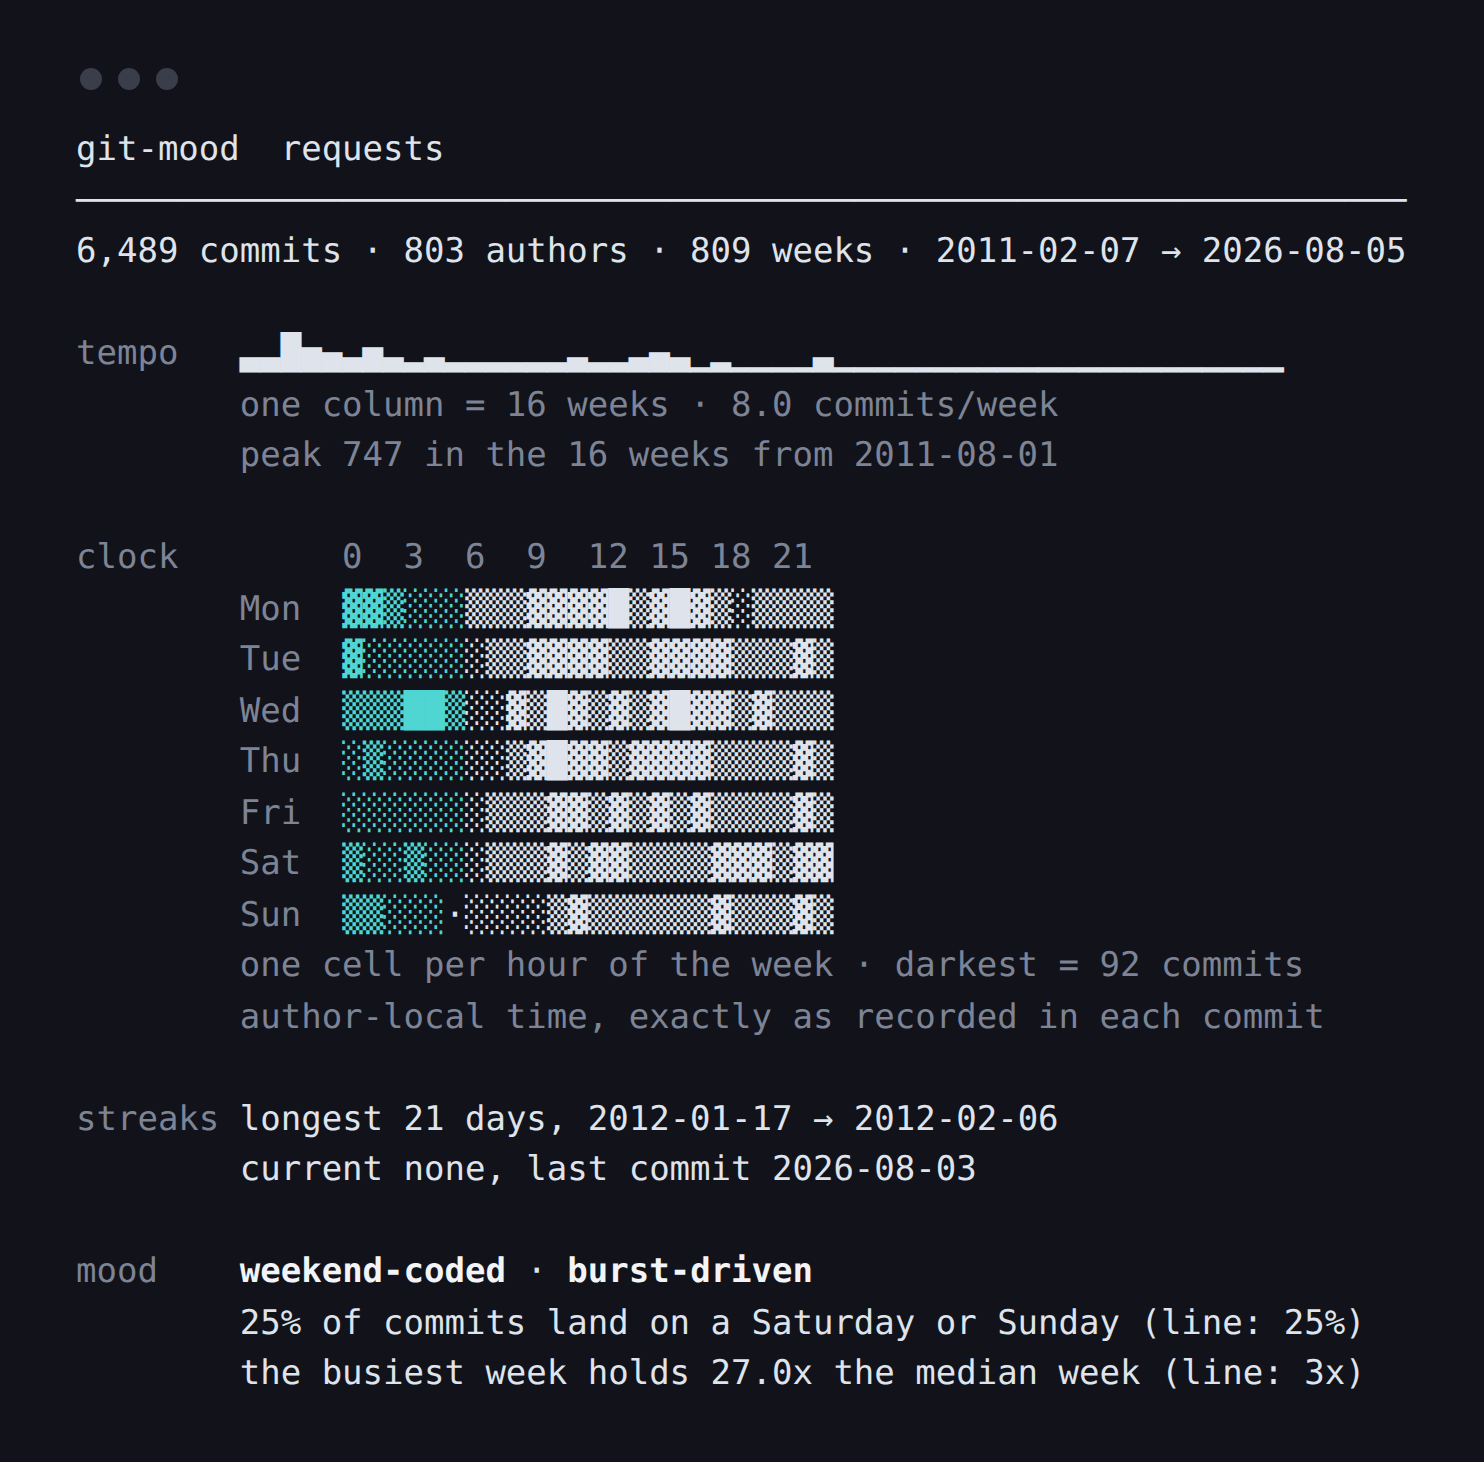
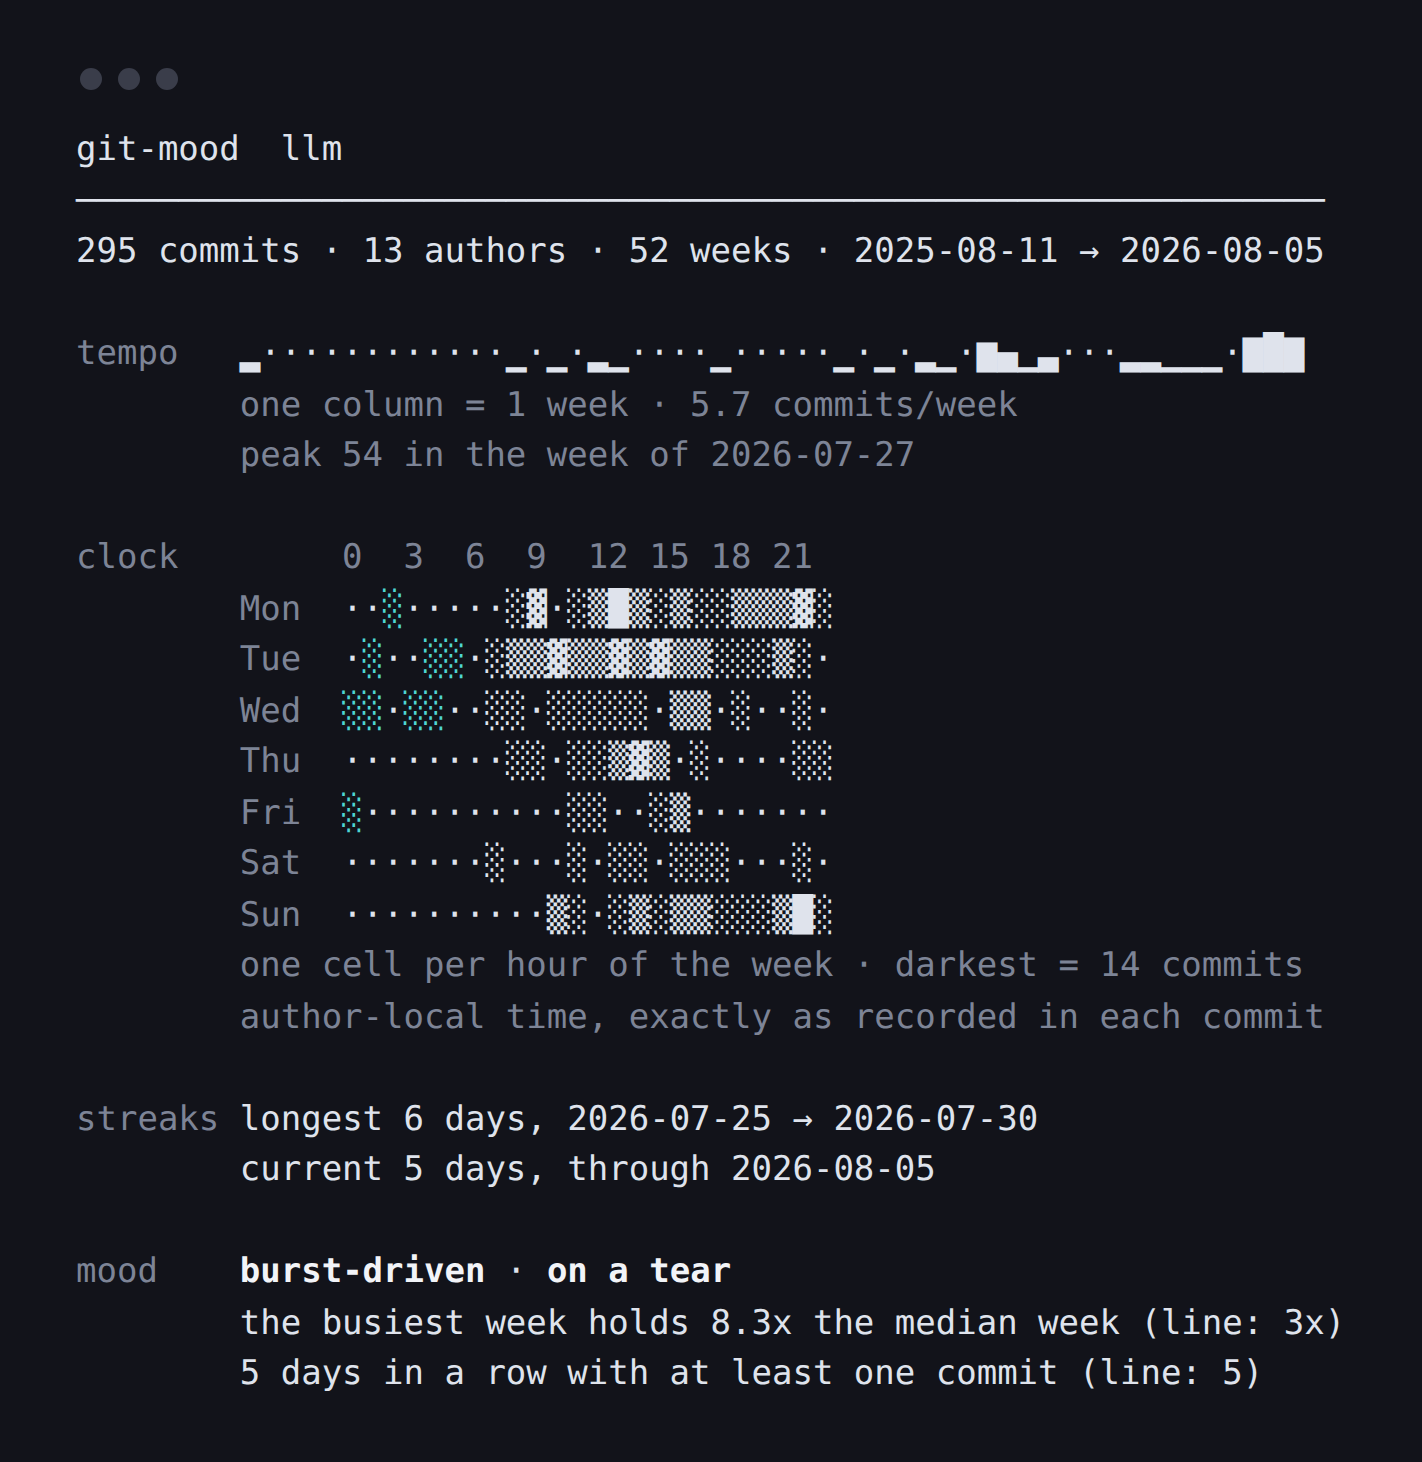
docs: screenshot charts a repo the tool has shape on; caption follows

diff --git a/README.md b/README.md
@@ -2,9 +2,9 @@
 
 Reads a git repository's history and draws a mood chart in your terminal: tempo, a punch-card clock, streaks, and a verdict that shows its arithmetic.
 
-![git-mood run with --all against a clone of psf/requests](screenshot.png)
+![git-mood run with --weeks 52 against a clone of simonw/llm](screenshot.png)
 
-*Captured from this build: `git-mood --all` against a `--filter=blob:none` clone of [psf/requests](https://github.com/psf/requests).*
+*Captured from this build: `git-mood --weeks 52` against a `--filter=blob:none` clone of [simonw/llm](https://github.com/simonw/llm).*
 
 ## What it does
 
